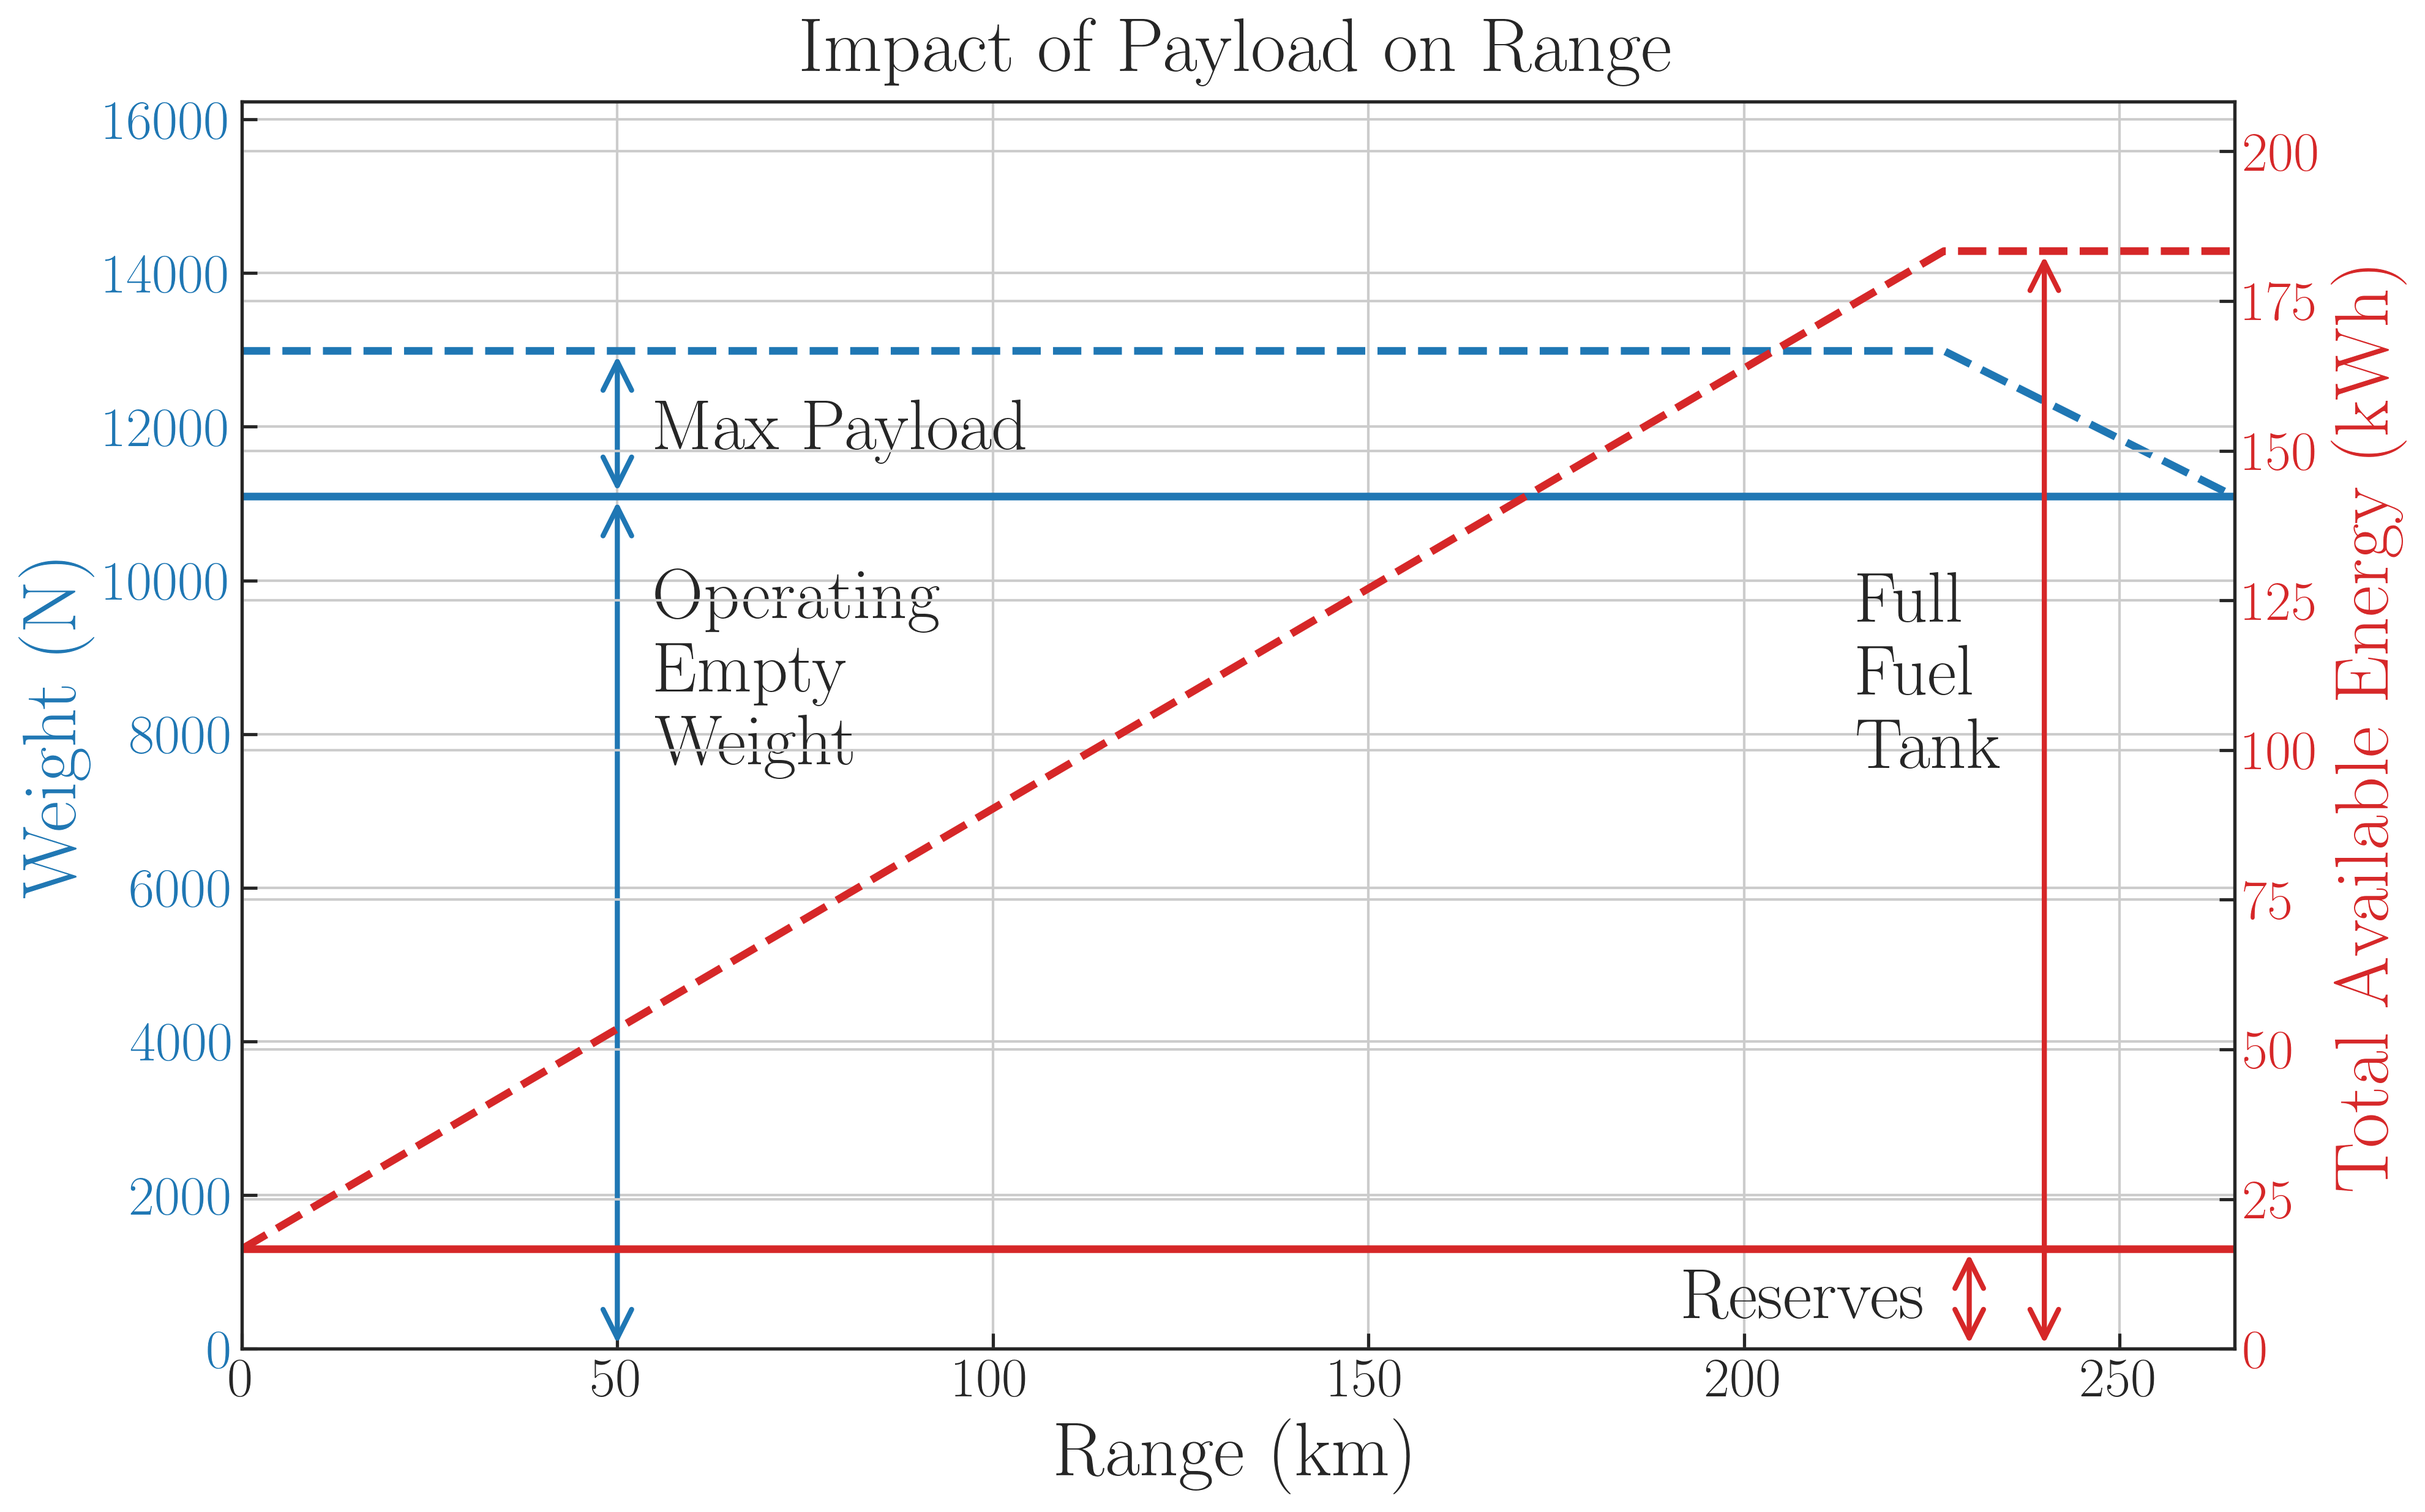
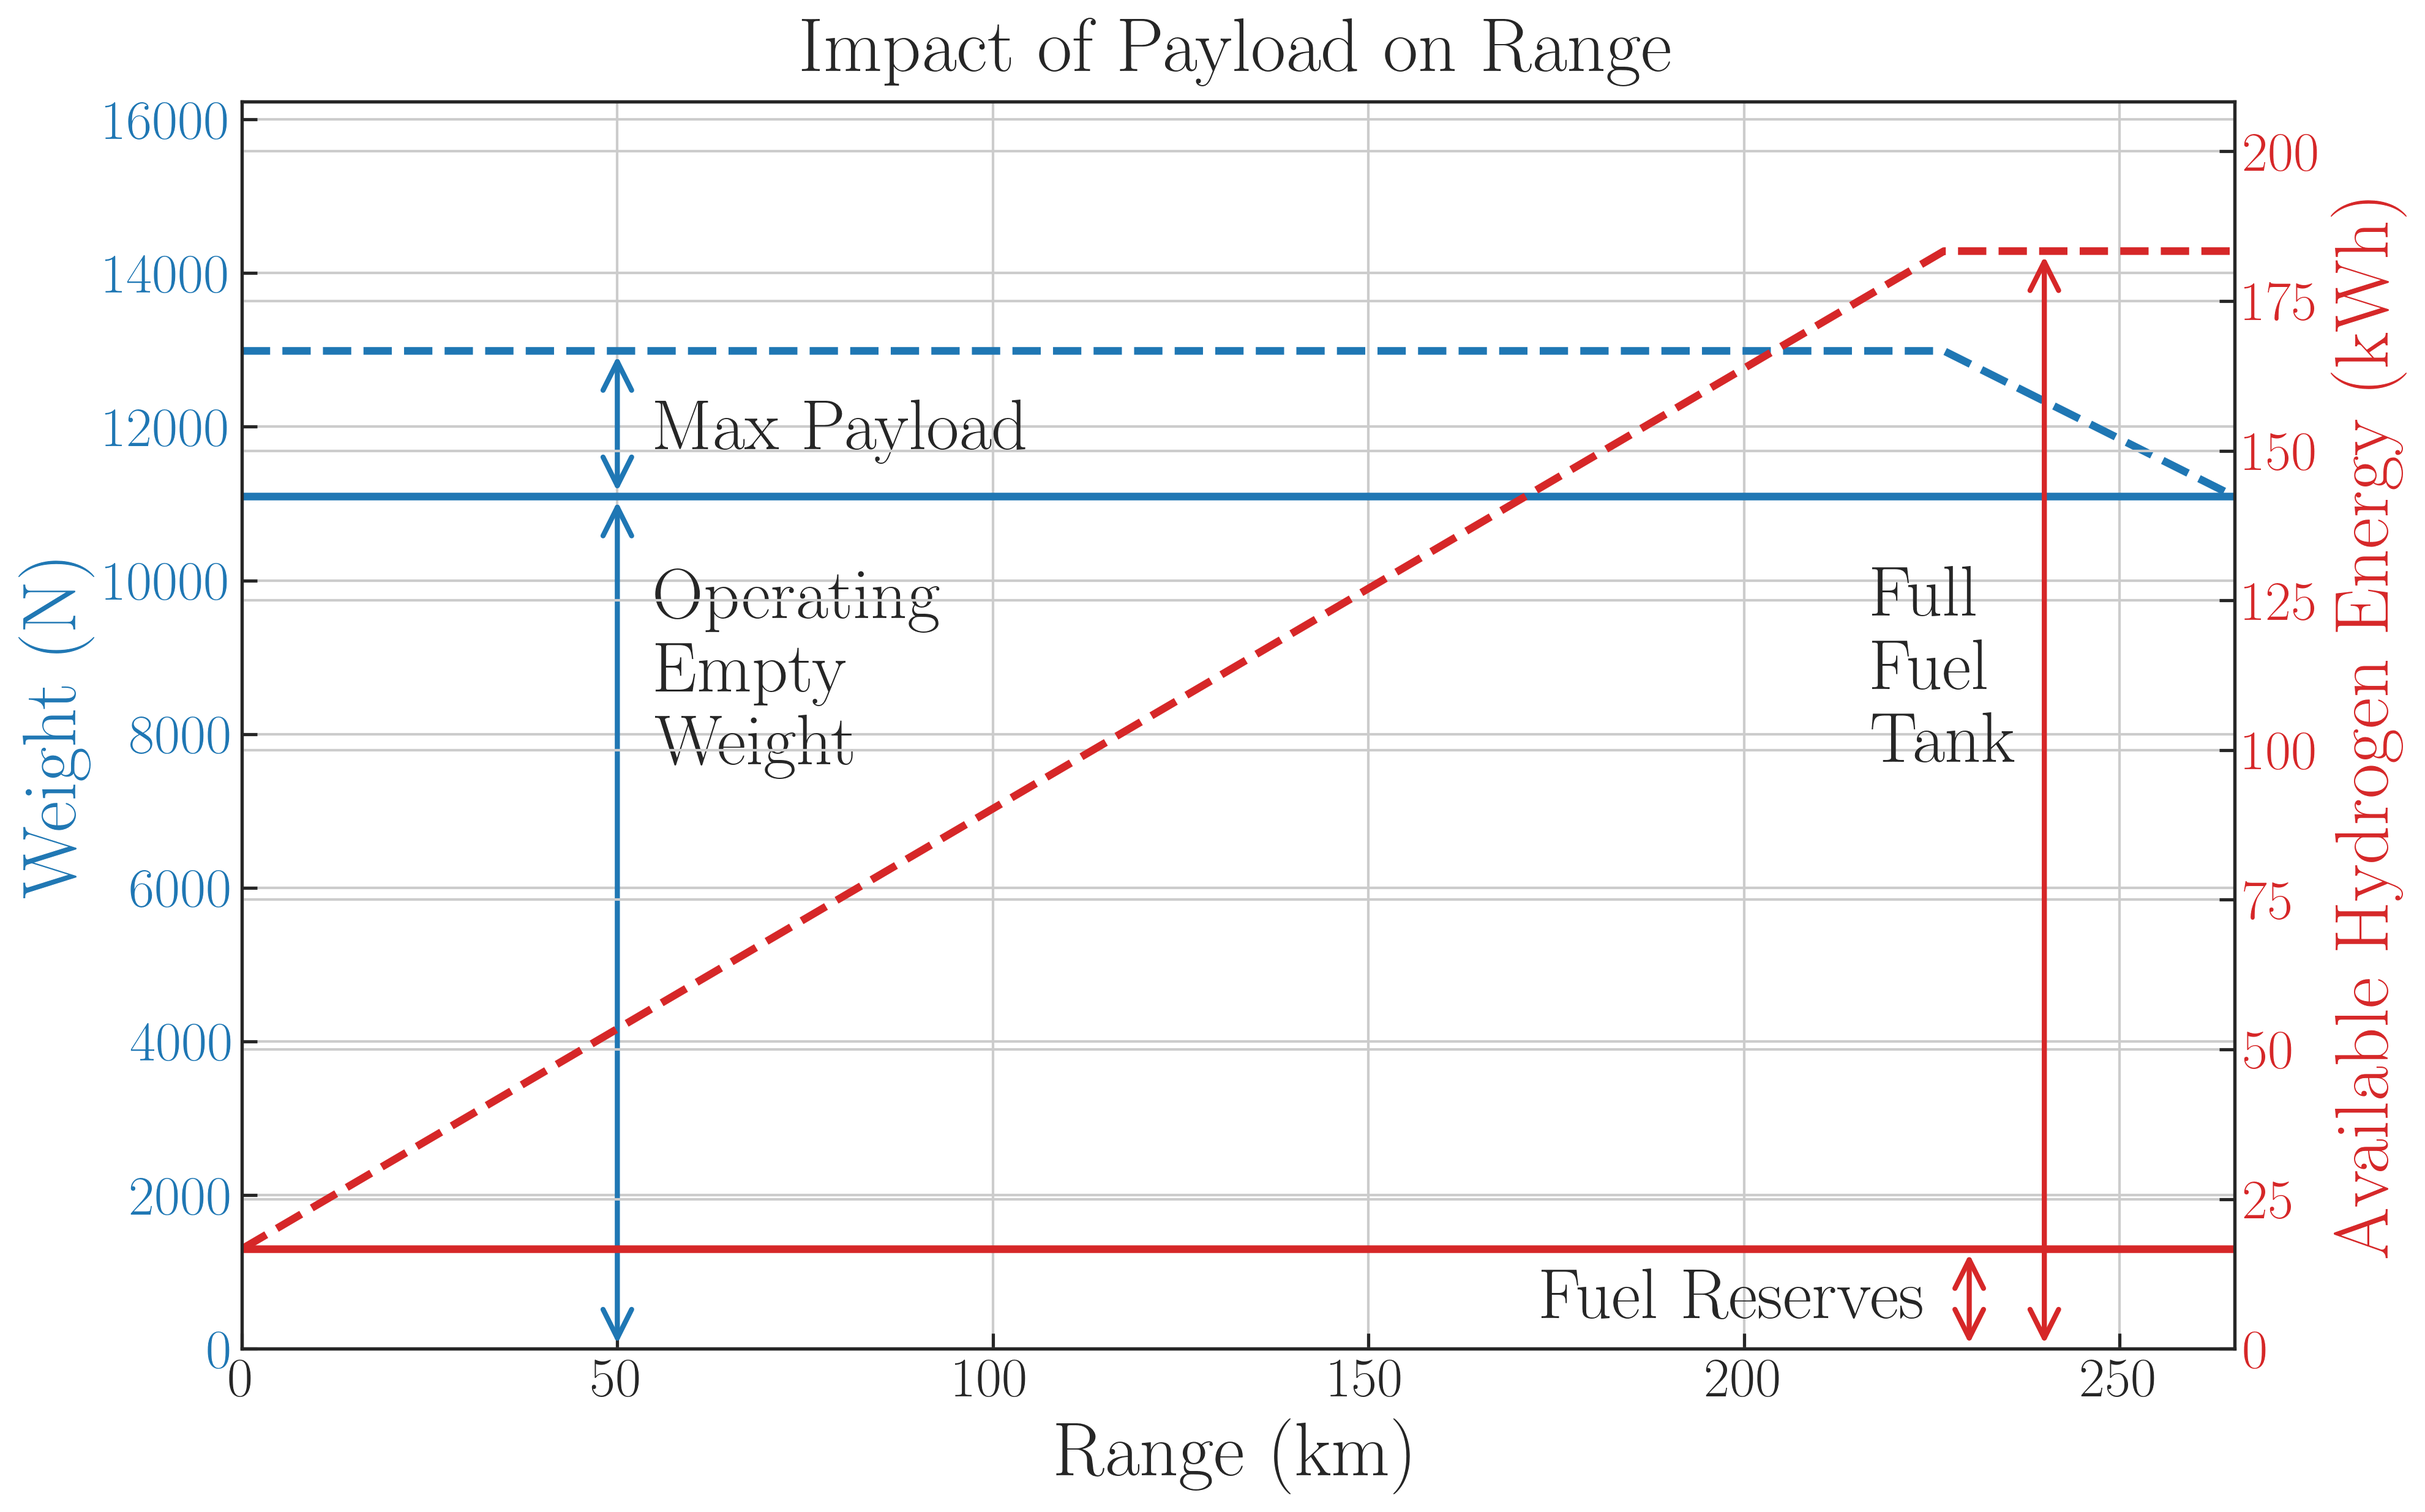
Updated payload_diagram
4.13.21 MP. Changed labels

Changed region(s): [[0.9626, 0.1246, 0.9937, 0.8102], [0.7453, 0.3739, 0.8384, 0.5297], [0.6211, 0.8414, 0.6832, 0.8725]]

diff --git a/Python_Codes/payload_diagram.py b/Python_Codes/payload_diagram.py
@@ -77,7 +77,7 @@ plt.text(55, 11700, "Max Payload")
 ax2 = ax1.twinx() 
   
 #### Battery Charge vs. Range
-ax2.set_ylabel('Total Available Energy (kWh)', color = color2) 
+ax2.set_ylabel('Available Hydrogen Energy (kWh)', color = color2) 
 ax2.plot([0, Range[-1]], [E_reserve, E_reserve], color = color2, linestyle='-')  
 ax2.plot(Range, [E_reserve, E_b+E_reserve, E_b+E_reserve], color = color2, linestyle='--') 
 ax2.tick_params(axis ='y', labelcolor = color2) 
@@ -86,11 +86,11 @@ ax2.set_ylim([0, np.amax(E_b)*1.25])
 #### Notations for Battery Charge vs. Range part
 plt.annotate('', xy=(230,0), xytext=(230,E_reserve), arrowprops=dict(arrowstyle="<->",
              connectionstyle="arc3", color=color2, lw=2))
-plt.text(160, 5, "Reserves")
+plt.text(173, 5, "Fuel Reserves")
 
 plt.annotate('', xy=(240,0), xytext=(240,E_b+E_reserve), arrowprops=dict(arrowstyle="<->",
              connectionstyle="arc3", color=color2, lw=2))
-plt.text(205, 90, "Full\nFuel\nTank")
+plt.text(217, 98, "Full\nFuel\nTank")
 
 #### Final Step 
 plt.title('Impact of Payload on Range') 
